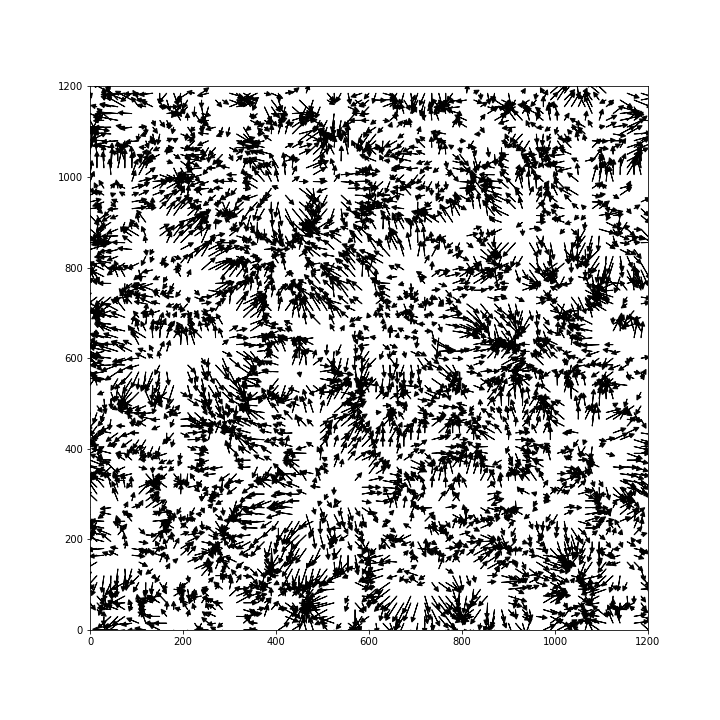
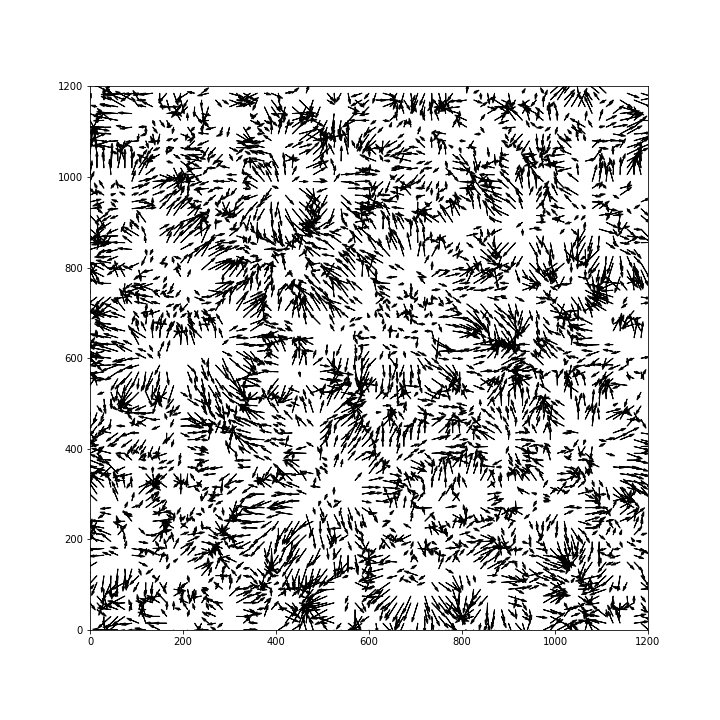
divergencia primer intento

diff --git a/Densidades (test)/plot_velocity.py b/Densidades (test)/plot_velocity.py
@@ -4,7 +4,7 @@ from mpl_toolkits.mplot3d import Axes3D
 #from scipy.stats import gaussian_kde
 
 #Data Loading========
-data1 = np.loadtxt("input_slice.dat", skiprows=8)
+data1 = np.loadtxt("Halo1.txt", skiprows=8)
 data1=np.transpose(data1)
 
 dataX=data1[0]
@@ -21,10 +21,10 @@ def segregar_corte_z(x, y, z, vx, vy, vz, mass, minz, dz):
 	ii = (z>minz) & (z<(minz+dz))
 	return x[ii], y[ii], z[ii], vx[ii], vy[ii], vz[ii], mass[ii]
 
-X, Y, Z,VX, VY, VZ, MASS = segregar_corte_z(dataX, dataY, dataZ, dataVx, dataVy, dataVz, dataM, 200,10)
+X, Y, Z,VX, VY, VZ, MASS = segregar_corte_z(dataX, dataY, dataZ, dataVx, dataVy, dataVz, dataM, 80,10)
 
 L_box  = 1200
-n_side = 80
+n_side = 100
 l_side = L_box/n_side
 vx_grid = np.ones([n_side, n_side])
 vy_grid = np.ones([n_side, n_side])
@@ -44,22 +44,87 @@ for i in range (n_side):
         tmp_m = MASS[ii]
         vx_grid[i,j] = np.sum(tmp_m * tmp_vx) / np.sum(tmp_m)
         vy_grid[i,j] = np.sum(tmp_m * tmp_vy) / np.sum(tmp_m)
+
         
 #==========================================              
+
+
+def dar_puntos_quietos(vxg,vyg,dv):
+    pc=np.zeros([n_side,n_side])
+    
+    for i in range (n_side):
+        for j in range (n_side):
+            x=vxg[i,j]
+            y=vyg[i,j]
+            speed=np.sqrt((x*x)+(y*y))
+            if(speed<=dv):
+                 pc[i,j]=1
+#                
+            
+    return pc
+
+
+def definir_divergencia(vxg,vyg):
+    div=np.zeros([n_side,n_side])
+    where_are_NaNs = np.isnan(vxg)
+    vxg[where_are_NaNs] = 0
+    where_are_NaNs = np.isnan(vyg)
+    vyg[where_are_NaNs] = 0
+    for i in range(n_side):
+        for j in range(n_side):
+            #correcciones para condiciones periodicas
+            i_A=i-1
+            i_B=i+1
+            j_A=i-1
+            j_B=j+1
+            if(i_A<0):
+                i_A=n_side-1
+            if(j_A<0):
+                j_A=n_side-1
+            if(j_B==(n_side)):
+                j_B=0
+            if(i_B==(n_side)):
+                i_B=0
+        #Divergencia=flujo entrante-flujo saliente
+        #Div<0 saliente; Div>0 entrante
+            ax=vxg[i,j_A]
+            bx=vxg[i,j_B]
+            ay=vyg[i_A,j]
+            by=vyg[i_B,j]
+            vx=vxg[i,j]
+            vy=vyg[i,j]
+            #flujo
+            F_x=(ax-bx)-np.abs(vx)
+            F_y=(by-ay)-np.abs(vy)
+            
+        
+            div[i,j]=F_x+F_y
+    return div
+        
+        
+            
+                
+#===================================
 plt.figure(figsize=(10, 10))
 axARR=plt.axes()
-
+Vmin=110
 for i in range(n_side):
     for j in range(n_side):
         print('plot', i,j)
         xi = i * l_side
         yi = j * l_side
-        xf = vx_grid[i,j]/20
-        yf = vy_grid[i,j]/20
-        axARR.arrow(xi,yi,xf,yf,head_width=10,head_length=10,fc='k',ec='k')
-
+        v_div=20
+        xf = vx_grid[i,j]/v_div
+        yf = vy_grid[i,j]/v_div
+        axARR.arrow(xi,yi,xf,yf,head_width=5,head_length=10,fc='k',ec='k')
+        
+        
 plt.xlim([0,1200])
 plt.ylim([0,1200])
-plt.savefig('arrows.png')
-
+plt.savefig('arrowspoints.png')   
+ 
+Divergencia=definir_divergencia(vx_grid,vy_grid)
+plt.figure(figsize=(10,10))
+plt.matshow(Divergencia)
+plt.savefig('divergencia.png')
 
